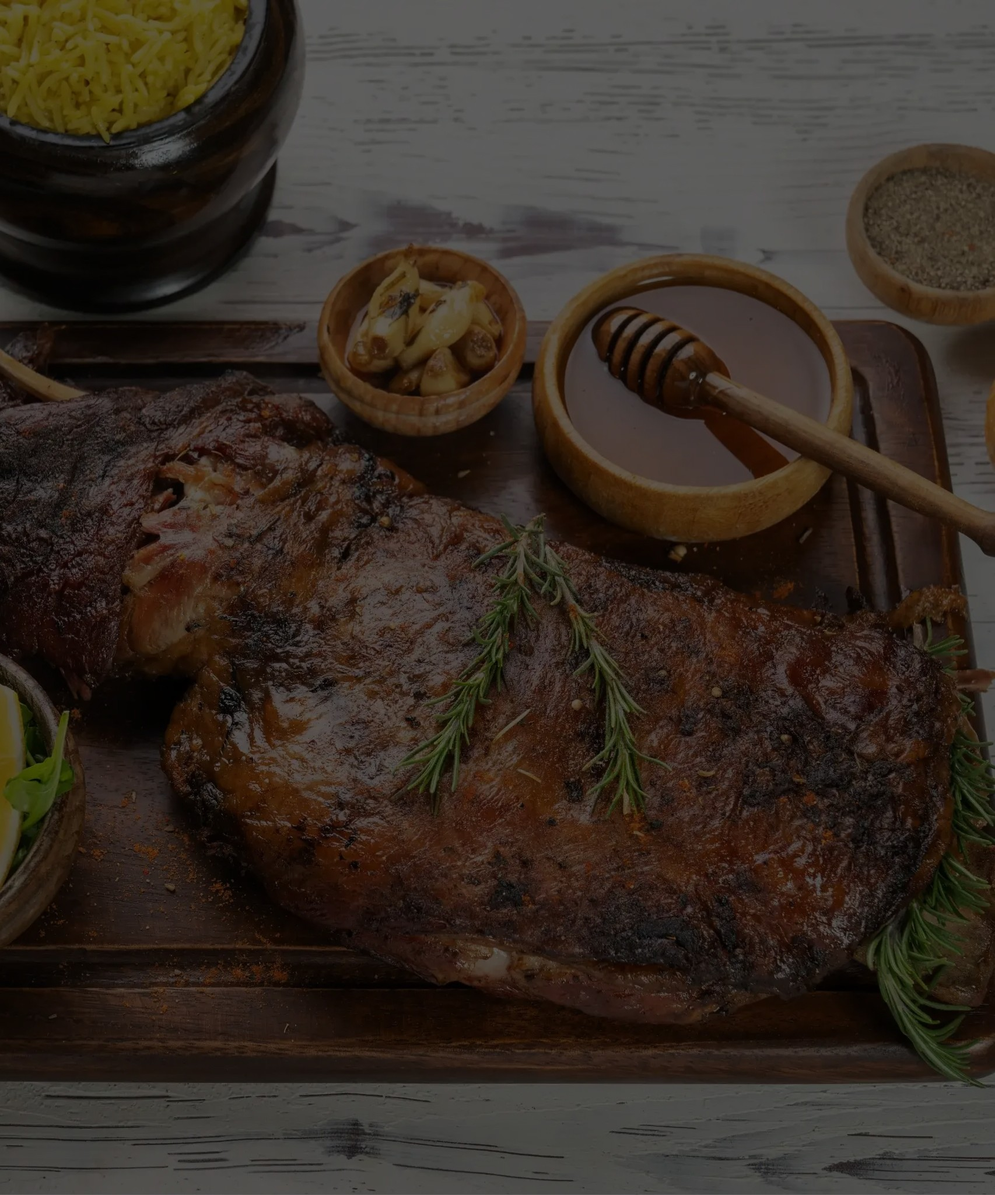
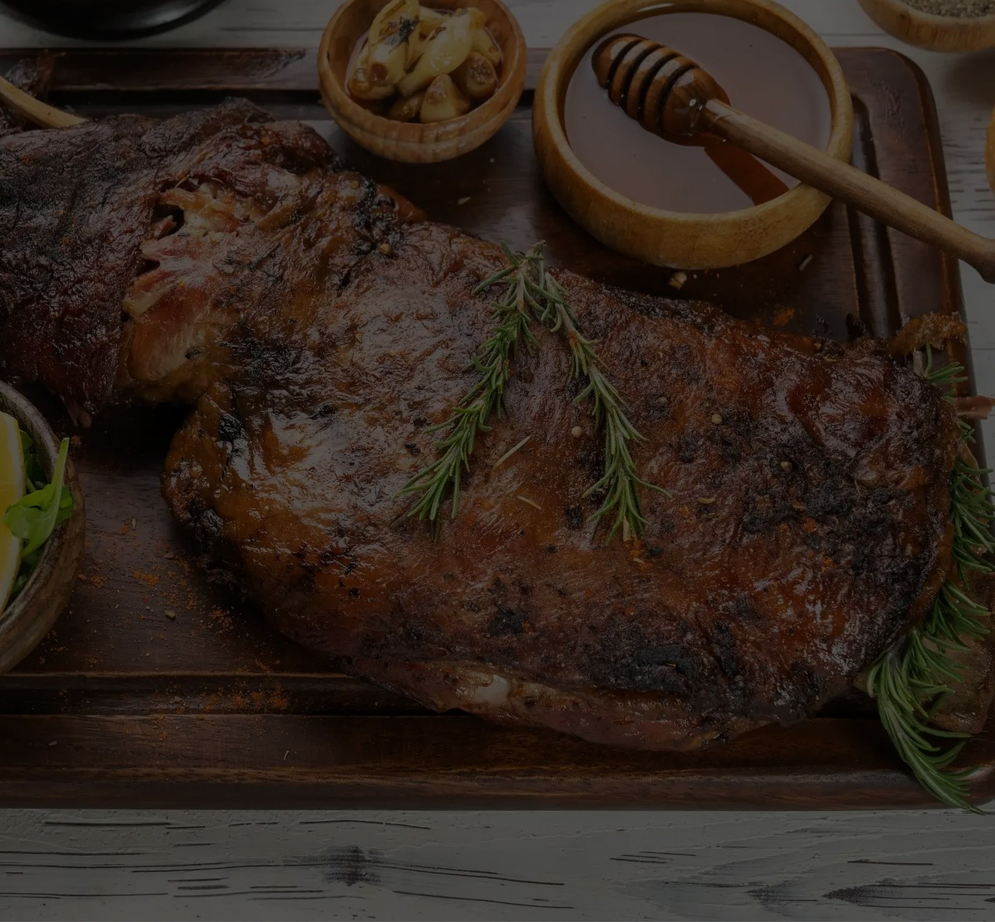
added another pic because the first didnt work

diff --git a/tailwind.config.js b/tailwind.config.js
@@ -40,7 +40,7 @@ module.exports = {
 			hero:'url(/hero-bg2.jpg)',
 			reservation:'url(/reservation.jpg)',
 			hero2:'url(/smallBg3.jpg)',
-			heroXl:'url(/heroXl.jpg)',
+			heroXl:'url(/smallBg3.jpg)',
 		},
 		backgroundSize: {
 			hero: 'cover',
